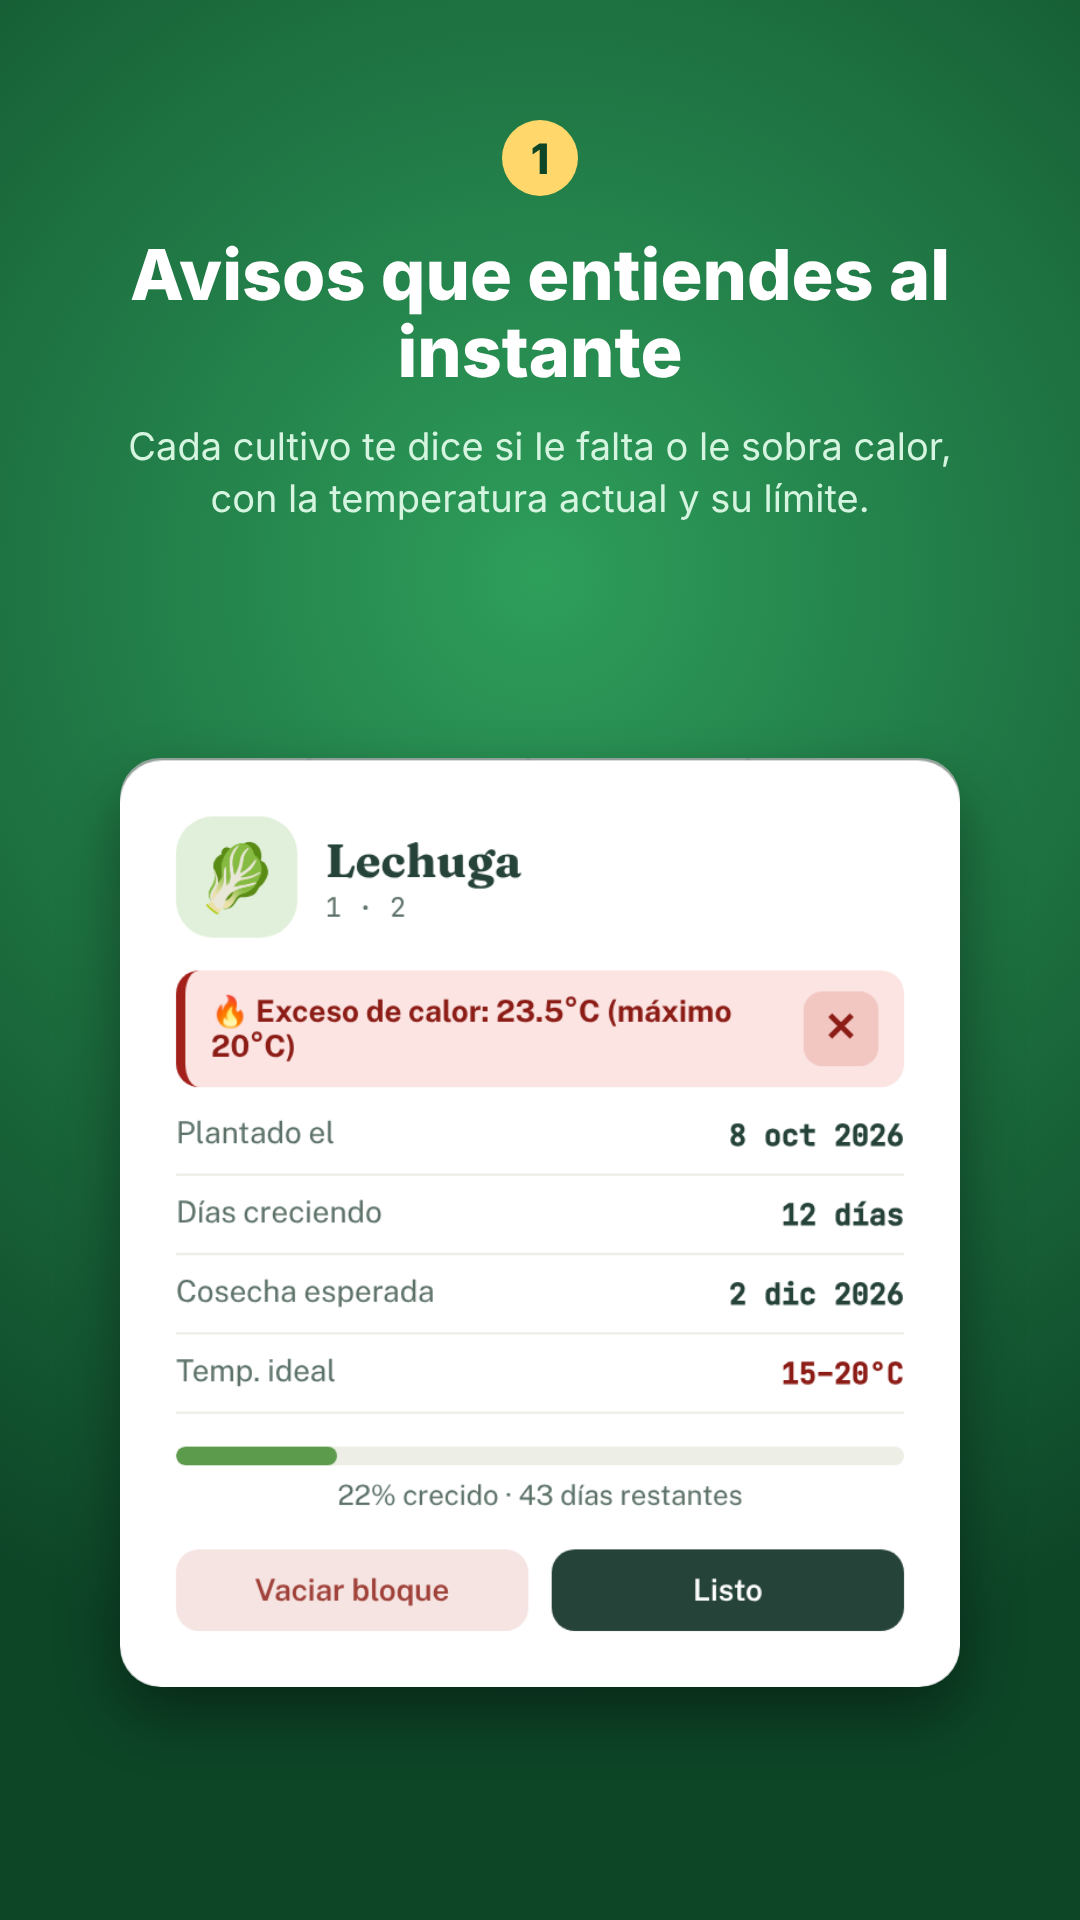
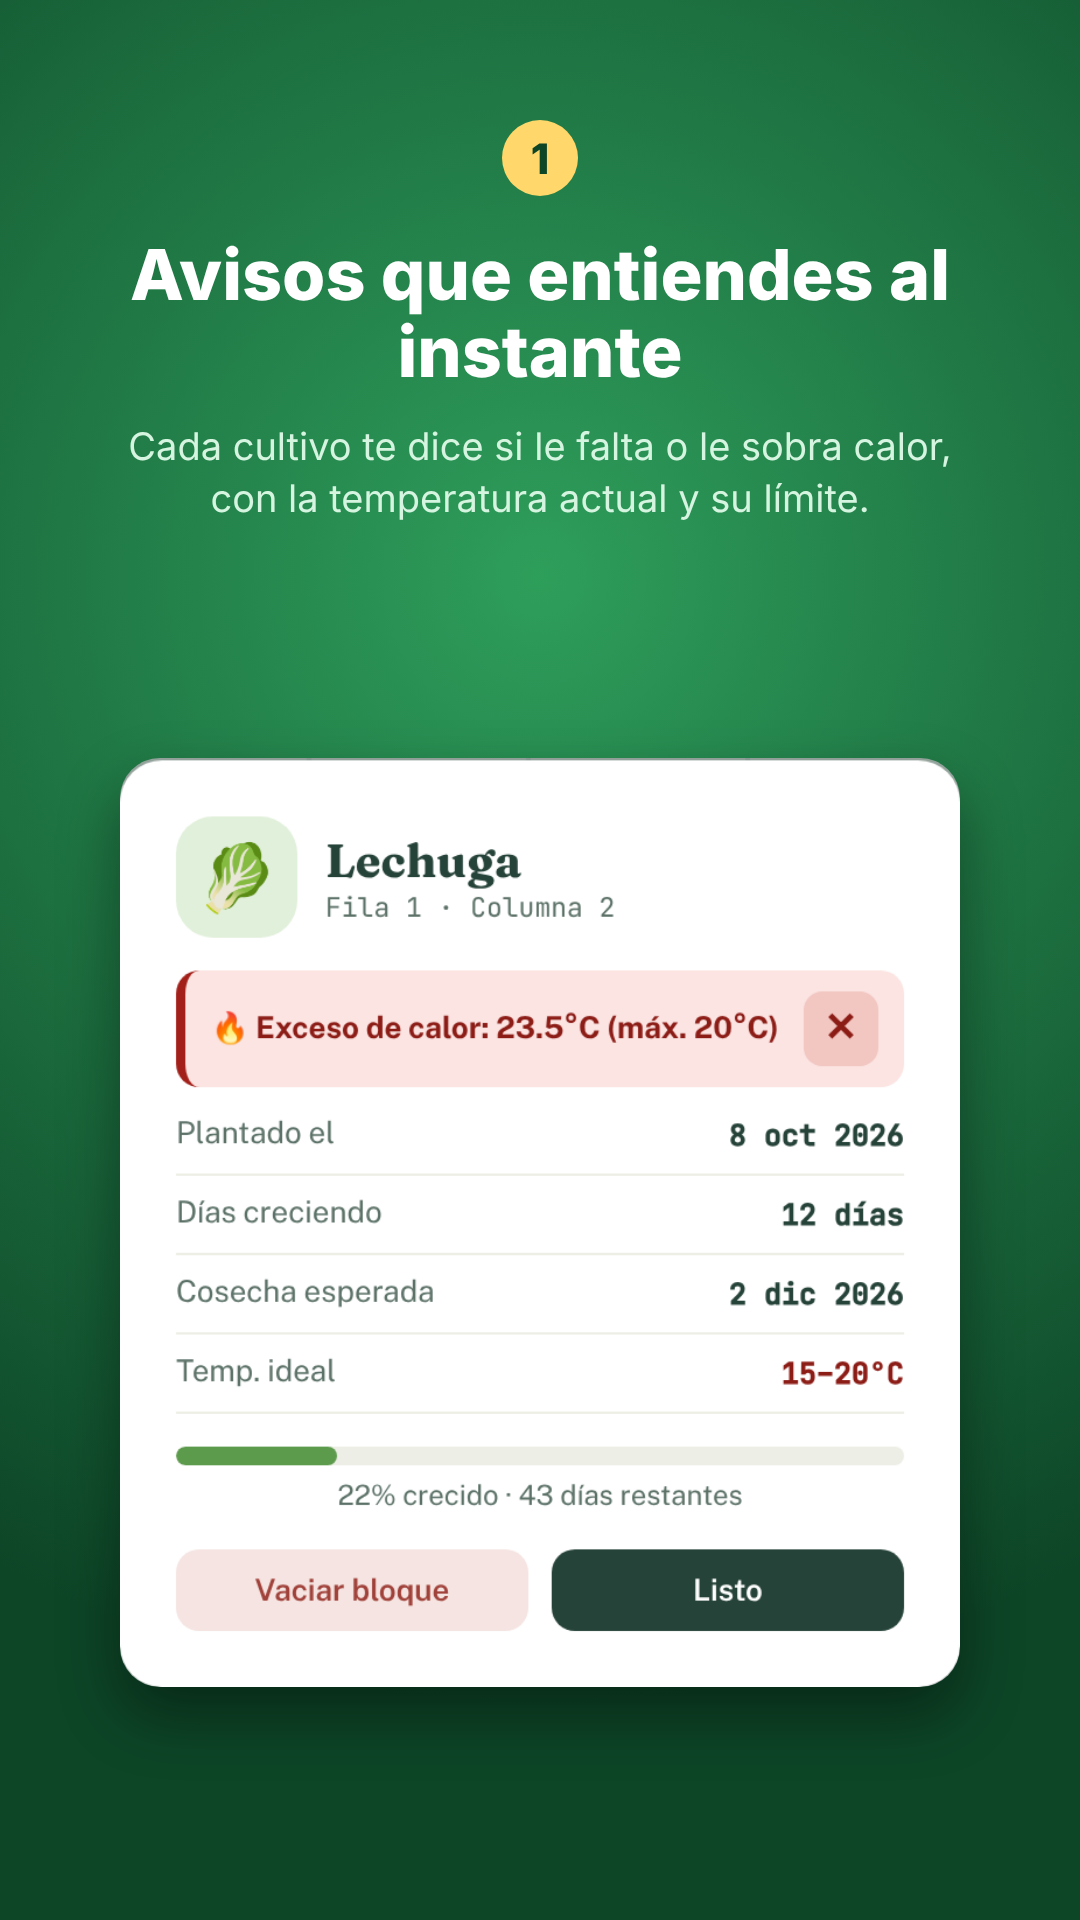
Block position as 'Row · Column'; abbreviated min/max in temperature alerts
Play Store screenshots regenerated with the new texts.

Claude-Session: https://claude.ai/code/session_01SuU6WoWP2hmMx5jrAr3kAE

Changed region(s): [[0.1833, 0.4688, 0.7333, 0.5625]]

diff --git a/index.html b/index.html
@@ -541,7 +541,7 @@ const TRANSLATIONS = {
     boardConfirm:'Confirm',
     boardCancel:'Cancel',
     e_irrigating:'An irrigation is running. Stop it and try again',
-    tempCold:'Too cold: {t}°C (minimum {min}°C)', tempHot:'Too hot: {t}°C (maximum {max}°C)',
+    tempCold:'Too cold: {t}°C (min {min}°C)', tempHot:'Too hot: {t}°C (max {max}°C)', blockPos:'Row {r} · Column {c}',
     muteTitle:'Silence this alert',
     mute24h:'24 hours',
     muteWeek:'1 week',
@@ -643,7 +643,7 @@ const TRANSLATIONS = {
     boardConfirm:'Confirmar',
     boardCancel:'Cancelar',
     e_irrigating:'Hay un riego en curso. Deténgalo y vuelva a intentar',
-    tempCold:'Falta calor: {t}°C (mínimo {min}°C)', tempHot:'Exceso de calor: {t}°C (máximo {max}°C)',
+    tempCold:'Falta calor: {t}°C (mín. {min}°C)', tempHot:'Exceso de calor: {t}°C (máx. {max}°C)', blockPos:'Fila {r} · Columna {c}',
     muteTitle:'Silenciar este aviso',
     mute24h:'24 horas',
     muteWeek:'1 semana',
@@ -744,7 +744,7 @@ const TRANSLATIONS = {
     boardConfirm:'Confirmer',
     boardCancel:'Annuler',
     e_irrigating:'Une irrigation est en cours. Arrêtez-la et réessayez',
-    tempCold:'Trop froid : {t}°C (minimum {min}°C)', tempHot:'Trop chaud : {t}°C (maximum {max}°C)',
+    tempCold:'Trop froid : {t}°C (min {min}°C)', tempHot:'Trop chaud : {t}°C (max {max}°C)', blockPos:'Rangée {r} · Colonne {c}',
     muteTitle:'Désactiver cette alerte',
     mute24h:'24 heures',
     muteWeek:'1 semaine',
@@ -886,7 +886,7 @@ const TRANSLATIONS = {
     boardConfirm:'Confirmar',
     boardCancel:'Cancelar',
     e_irrigating:'Há uma irrigação em andamento. Pare-a e tente de novo',
-    tempCold:'Frio demais: {t}°C (mínimo {min}°C)', tempHot:'Calor demais: {t}°C (máximo {max}°C)',
+    tempCold:'Frio demais: {t}°C (mín. {min}°C)', tempHot:'Calor demais: {t}°C (máx. {max}°C)', blockPos:'Linha {r} · Coluna {c}',
     muteTitle:'Silenciar este aviso',
     mute24h:'24 horas',
     muteWeek:'1 semana',
@@ -1028,7 +1028,7 @@ const TRANSLATIONS = {
     boardConfirm:'Bestätigen',
     boardCancel:'Abbrechen',
     e_irrigating:'Eine Bewässerung läuft. Bitte stoppen und erneut versuchen',
-    tempCold:'Zu kalt: {t}°C (Minimum {min}°C)', tempHot:'Zu heiß: {t}°C (Maximum {max}°C)',
+    tempCold:'Zu kalt: {t}°C (min. {min}°C)', tempHot:'Zu heiß: {t}°C (max. {max}°C)', blockPos:'Reihe {r} · Spalte {c}',
     muteTitle:'Diese Warnung stummschalten',
     mute24h:'24 Stunden',
     muteWeek:'1 Woche',
@@ -1170,7 +1170,7 @@ const TRANSLATIONS = {
     boardConfirm:'确认',
     boardCancel:'取消',
     e_irrigating:'正在灌溉。请先停止后重试',
-    tempCold:'温度过低：{t}°C（最低 {min}°C）', tempHot:'温度过高：{t}°C（最高 {max}°C）',
+    tempCold:'温度过低：{t}°C（最低 {min}°C）', tempHot:'温度过高：{t}°C（最高 {max}°C）', blockPos:'第 {r} 行 · 第 {c} 列',
     muteTitle:'关闭此提醒',
     mute24h:'24 小时',
     muteWeek:'1 周',
@@ -1312,7 +1312,7 @@ const TRANSLATIONS = {
     boardConfirm:'पुष्टि करें',
     boardCancel:'रद्द करें',
     e_irrigating:'सिंचाई चल रही है। उसे रोककर फिर कोशिश करें',
-    tempCold:'बहुत ठंड: {t}°C (न्यूनतम {min}°C)', tempHot:'बहुत गर्मी: {t}°C (अधिकतम {max}°C)',
+    tempCold:'बहुत ठंड: {t}°C (न्यून. {min}°C)', tempHot:'बहुत गर्मी: {t}°C (अधि. {max}°C)', blockPos:'पंक्ति {r} · स्तंभ {c}',
     muteTitle:'यह चेतावनी बंद करें',
     mute24h:'24 घंटे',
     muteWeek:'1 सप्ताह',
@@ -1454,7 +1454,7 @@ const TRANSLATIONS = {
     boardConfirm:'تأكيد',
     boardCancel:'إلغاء',
     e_irrigating:'هناك ري جارٍ. أوقفه وأعد المحاولة',
-    tempCold:'برودة زائدة: {t}°C (الحد الأدنى {min}°C)', tempHot:'حرارة زائدة: {t}°C (الحد الأقصى {max}°C)',
+    tempCold:'برودة زائدة: {t}°C (أدنى {min}°C)', tempHot:'حرارة زائدة: {t}°C (أقصى {max}°C)', blockPos:'الصف {r} · العمود {c}',
     muteTitle:'إسكات هذا التنبيه',
     mute24h:'24 ساعة',
     muteWeek:'أسبوع',
@@ -1596,7 +1596,7 @@ const TRANSLATIONS = {
     boardConfirm:'Conferma',
     boardCancel:'Annulla',
     e_irrigating:'Irrigazione in corso. Fermala e riprova',
-    tempCold:'Troppo freddo: {t}°C (minimo {min}°C)', tempHot:'Troppo caldo: {t}°C (massimo {max}°C)',
+    tempCold:'Troppo freddo: {t}°C (min {min}°C)', tempHot:'Troppo caldo: {t}°C (max {max}°C)', blockPos:'Fila {r} · Colonna {c}',
     muteTitle:'Silenzia questo avviso',
     mute24h:'24 ore',
     muteWeek:'1 settimana',
@@ -1738,7 +1738,7 @@ const TRANSLATIONS = {
     boardConfirm:'Подтвердить',
     boardCancel:'Отмена',
     e_irrigating:'Идёт полив. Остановите его и повторите',
-    tempCold:'Слишком холодно: {t}°C (минимум {min}°C)', tempHot:'Слишком жарко: {t}°C (максимум {max}°C)',
+    tempCold:'Слишком холодно: {t}°C (мин. {min}°C)', tempHot:'Слишком жарко: {t}°C (макс. {max}°C)', blockPos:'Ряд {r} · Колонка {c}',
     muteTitle:'Отключить это предупреждение',
     mute24h:'24 часа',
     muteWeek:'1 неделя',
@@ -2413,7 +2413,7 @@ function openModal(r, c){
   modal.innerHTML = `
     <div class="head">
       <div class="icon-badge" style="background:${veg.light}">${veg.icon}</div>
-      <div><h3>${getVegName(veg)}</h3><div class="block-pos">${r+1} · ${c+1}</div></div>
+      <div><h3>${getVegName(veg)}</h3><div class="block-pos">${t('blockPos',{ r:r+1, c:c+1 })}</div></div>
     </div>
     ${tst ? `<div class="temp-alert ${tst.kind}"><span class="ta-text">${tst.kind==='cold'?'❄':'🔥'} ${tempStatusText(tst)}</span><button class="mute-x" id="muteBtn" title="${t('muteTitle')}" aria-label="${t('muteTitle')}">✕</button></div><div id="mutePanel"></div>` : ''}
     ${tstRaw && tmuted ? `<div class="muted-note"><span>🔕 ${state.plantings[key].tempMute.forever ? t('mutedForever') : t('mutedUntil',{ d: fmtDateTime(state.plantings[key].tempMute.until) })}</span><button id="unmuteBtn">${t('unmute')}</button></div>` : ''}
